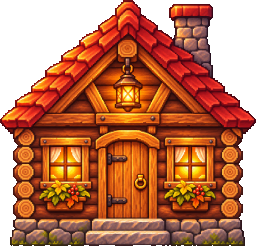
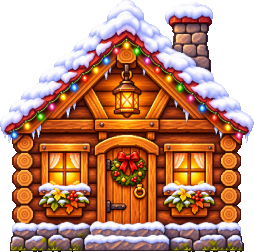
v002: Winter Christmas version: snowy fir trees, falling snow, Christmas lights, Santa badger, sleigh bells
Live on https://www.fugio.co/timber/

diff --git a/timber/game.js b/timber/game.js
@@ -117,13 +117,15 @@ const sfx = {
   hammer() { tone(N(96), .04, 'square', .05); noise(.07, .3, 3000, 1500); tone(240, .09, 'square', .06, 0, 130); },
   ouch() { tone(N(91), .08, 'square', .06); tone(N(86), .35, 'triangle', .08, .08, N(64)); },
   rise() { [0, 4, 7].forEach((s, i) => tone(N(74 + s), .07, 'triangle', .05, i * .05)); },
-  right() { [0, 4, 7, 12].forEach((s, i) => tone(N(76 + s), .08, 'square', .045, i * .06)); },
+  right() { [0, 4, 7, 12].forEach((s, i) => tone(N(76 + s), .08, 'square', .045, i * .06)); sfx.bells(.05, 3); },
   wrong() { tone(N(67), .13, 'triangle', .09); tone(N(62), .26, 'triangle', .08, .12, N(60)); },
   step() { noise(.04, .06, 700, 300, 0, 'lowpass'); },
   coin(n = 0) { n = Math.min(n, 12); tone(N(88 + n), .06, 'square', .04); tone(N(95 + n), .1, 'square', .04, .06); },
   pop() { noise(.12, .2, 2000, 5000, 0, 'highpass'); tone(N(84), .08, 'square', .04, .02, N(96)); },
-  sold() { [72, 76, 79, 84, 79, 84, 88, 91].forEach((n, i) => tone(N(n), i === 7 ? .5 : .12, 'square', .055, i * .11)); [48, 55, 60].forEach((n, i) => tone(N(n), .3, 'triangle', .1, i * .33)); },
-  done() { [67, 72, 76, 79, 84].forEach((n, i) => tone(N(n), .1, 'square', .05, i * .07)); },
+  sold() { [72, 76, 79, 84, 79, 84, 88, 91].forEach((n, i) => tone(N(n), i === 7 ? .5 : .12, 'square', .055, i * .11)); [48, 55, 60].forEach((n, i) => tone(N(n), .3, 'triangle', .1, i * .33)); sfx.bells(0, 12); },
+  done() { [67, 72, 76, 79, 84].forEach((n, i) => tone(N(n), .1, 'square', .05, i * .07)); sfx.bells(.1, 8); },
+  // sleigh bells: quick shimmery shakes with a high bell ping in each
+  bells(d = 0, n = 6) { for (let i = 0; i < n; i++) { const t = d + i * .075 + (i & 1) * .02; noise(.09, .05, 9000, 6000, t, 'highpass'); tone(N(98 + [0, 4, 2][i % 3]), .09, 'sine', .022, t); } },
 };
 const SPK_ON = '<svg viewBox="0 0 12 12" fill="currentColor" shape-rendering="crispEdges"><path d="M1 4h2l3-3h1v10H6L3 8H1z"/><path d="M8 4h1v4H8zM10 2h1v8h-1z"/></svg>';
 const SPK_OFF = '<svg viewBox="0 0 12 12" fill="currentColor" shape-rendering="crispEdges"><path d="M1 4h2l3-3h1v10H6L3 8H1z"/><path d="M8 4h1v1h1V4h1v1h-1v2h1v1h-1V7H9v1H8V7h1V5H8z"/></svg>';
@@ -685,7 +687,7 @@ function drawTree(v, t) {
   } else drawSprite(v, T, t.x, GROUND, {frame, flip: T.flip, rot: t.wob, px: 0, py: 0});
 }
 function drawForest(v) {
-  drawBg(v, SPR.bgForest);
+  drawBg(v, SPR.bgForest); drawSnow(v, [0]);
   const T = SPR.tree, L = SPR.log;
   for (const t of forest.trees) if (t.stump) drawSprite(v, SPR.stump, t.x, GROUND + 4, {flip: T.flip});
   for (const t of forest.trees) if (t.log > 0) drawSprite(v, L, t.x + T.trunkWW / 2 + 40 + L.w * L.k / 2, GROUND + 26, {alpha: t.log});
@@ -695,7 +697,7 @@ function drawForest(v) {
   drawParts(v, forest.parts);
 }
 function drawSite(v) {
-  drawBg(v, SPR.bgSite);
+  drawBg(v, SPR.bgSite); drawSnow(v, [0]);
   const Hs = site.house, hs = SPR['house' + Hs.k], hw = houseW(), hy = GROUND + 22;
   drawSprite(v, SPR.plot, SITE_X, GROUND - 4, {k: hw * 1.34 / SPR.plot.w});
   if (site.pile.s > 0) { const k = SPR.logpile.k * site.pile.s; drawSprite(v, SPR.logpile, pileX(), GROUND - 30, {kx: k, ky: k}); }
@@ -717,6 +719,7 @@ function render() {
   ctx.setTransform(dpr, 0, 0, dpr, 0, 0); ctx.imageSmoothingEnabled = false;
   if (slide > 0 && slide < 1) { const x = Math.round((1 - slide) * W); drawScene(forest, -slide * W, [0, x]); drawScene(site, (1 - slide) * W, [x, W]); }
   else drawScene(cur, 0);
+  drawSnow(cur.vd, [1, 2]);
   if (flashA > 0) { ctx.fillStyle = `rgba(255,255,255,${flashA})`; ctx.fillRect(0, 0, W, H); }
 }
 
@@ -753,8 +756,41 @@ function drawParts(v, ps) {
   }
   ctx.globalAlpha = 1;
 }
-const CHIP = ['#f2cf94', '#e0b070', '#c8955a', '#fff0c8'], LEAF = ['#3f9446', '#5cb85a', '#2f7a3c', '#e3b23c', '#f0c850'], DUST = ['#efe0c0', '#e0cca0', '#fff4dc'],
-  SPARK = ['#ffffff', '#ffd23f', '#fff3a0'], CONF = ['#ff5f8a', '#ffd23f', '#3ddc84', '#5ec8ff', '#b57bff', '#ff8a2a'];
+// winter: LEAF is snow lumps and a few fir needles, DUST is powder snow, the confetti is in Christmas colours
+const CHIP = ['#f2cf94', '#e0b070', '#c8955a', '#fff0c8'], LEAF = ['#ffffff', '#f2f8ff', '#dcebf8', '#ffffff', '#2f6b45'], DUST = ['#ffffff', '#eef5fd', '#d8e8f6'],
+  SNOW = ['#ffffff', '#f4f9ff', '#dcebf8'], SPARK = ['#ffffff', '#ffd23f', '#fff3a0'], CONF = ['#e63946', '#ffffff', '#2fbf6c', '#ffd23f', '#e63946', '#1f8a4c', '#9fe0ff'];
+
+// ---------- the snowfall: pixel flakes in three layers over the whole screen. The far ones (small, slow, dim) fall
+// behind the trees and Foxino, the near ones (bigger, a little plus shape) in front of everything. They drift with a
+// slow gusty wind and move a little against the camera, so the snow feels deep.
+const FLAKES = [], FD = [.35, .62, 1];
+for (let i = 0, n = REDUCED ? 45 : 120; i < n; i++) FLAKES.push({x: Math.random(), y: Math.random(), z: i % 5 < 2 ? 0 : i % 5 < 4 ? 1 : 2, ph: rand(0, 6.3), sp: rand(.75, 1.25)});
+let windT = 0;
+function stepSnow(dt) {
+  windT += dt;
+  const wind = Math.sin(windT * .23) * .55 + Math.sin(windT * .71 + 1) * .25;
+  for (const f of FLAKES) {
+    const d = FD[f.z];
+    f.y += dt * (.03 + .065 * d) * f.sp * (REDUCED ? .5 : 1);
+    f.x += dt * (wind * .035 * d + Math.sin(windT * 1.4 + f.ph) * .014 * d);
+    if (f.y > 1) { f.y -= 1; f.x = Math.random(); }
+    f.x -= Math.floor(f.x);
+  }
+}
+function drawSnow(v, layers) {
+  const u = Math.max(2, Math.round(Math.min(W, H) / 230)), span = W + 60, camX = v ? v.cx * v.s : 0;
+  ctx.fillStyle = '#ffffff';
+  for (const f of FLAKES) {
+    if (!layers.includes(f.z)) continue;
+    const d = FD[f.z];
+    let x = (f.x * span - camX * d * .3) % span; if (x < 0) x += span;
+    x = Math.round(x - 30); const y = Math.round(f.y * (H + 60) - 30);
+    ctx.globalAlpha = f.z === 0 ? .55 : f.z === 1 ? .8 : .95;
+    if (f.z === 2) { ctx.fillRect(x + u, y, u, u * 3); ctx.fillRect(x, y + u, u * 3, u); }
+    else { const s = u * (f.z + 1); ctx.fillRect(x, y, s, s); }
+  }
+  ctx.globalAlpha = 1;
+}
 
 // ---------- the DOM pop-ups: CHOP!, TIMBER!, OUCH!, the speech bubble, the flying coins
 function burst(sc, text, wx, wy, cls = '') {
@@ -822,15 +858,15 @@ function stepActor(a, dt) {
 }
 function update(dt) {
   areaNow();
-  trauma = Math.max(0, trauma - dt * 2.4); flashA = Math.max(0, flashA - dt * 3);
+  trauma = Math.max(0, trauma - dt * 2.4); flashA = Math.max(0, flashA - dt * 3); stepSnow(dt);
   for (const sc of [forest, site]) { updateView(sc, dt); stepParts(sc, dt); }
   stepActor(forest.fox, dt); stepActor(site.fox, dt);
   const b = site.buyer; if (b.walking) { b.wt += dt; b.bob = Math.abs(Math.sin(b.wt * 9)) * 14; } else b.bob *= Math.exp(-dt * 14);
   for (const t of forest.trees) { if (t.wobA > 0) { t.wobA = Math.max(0, t.wobA - dt * 2.5); t.wob = Math.sin(gameT * 38) * .022 * t.wobA; } else t.wob = 0; }
-  // the lobby: a leaf now and then drifts down from the tree
+  // the lobby: now and then a lump of snow drops from the fir's branches
   if (mode === 'lobby' && forest.trees[0]) {
     lobbyLeafT -= dt;
-    if (lobbyLeafT <= 0) { lobbyLeafT = rand(.6, 1.6); const t = forest.trees[0]; addParts(forest, 1, {x: t.x + rand(-260, 260), y: GROUND - TREE_H * rand(.4, .7), vx: [0, 0], vy: [40, 80], g: 60, life: [4, 6], size: [10, 13], cols: LEAF, kind: 'leaf'}); }
+    if (lobbyLeafT <= 0) { lobbyLeafT = rand(.6, 1.6); const t = forest.trees[0]; addParts(forest, 3, {x: t.x + rand(-220, 220), y: GROUND - TREE_H * rand(.35, .75), sx: 20, sy: 10, vx: [-20, 20], vy: [20, 60], g: 160, life: [2.5, 3.5], size: [8, 14], cols: SNOW, kind: 'leaf'}); }
   }
   stepFlyers(dt); placeBubble();
 }
@@ -975,6 +1011,7 @@ async function chopRight(i) {
   const nx = t.x + notchDx(), ny = notchY();
   addParts(forest, 16, {x: nx, y: ny, sy: 20, vx: [-760, -120], vy: [-950, -250], cols: CHIP, size: [14, 26]});
   addParts(forest, 4, {x: nx, y: ny, vx: [-200, 200], vy: [-200, 0], g: 0, life: [.3, .5], cols: DUST, kind: 'dust', size: [30, 50]});
+  addParts(forest, 12, {x: t.x, y: GROUND - TREE_H * .6, sx: 230, sy: TREE_H * .28, vx: [-70, 70], vy: [0, 140], g: 420, life: [1.1, 1.7], cols: SNOW, kind: 'leaf', size: [10, 20]});
   burst(forest, pick1(['CHOP!', 'CHOP!', 'THWACK!']), nx - 40, ny - 200, 'hi');
   const pips = $('qPips').children; if (pips[t.hits - 1]) pips[t.hits - 1].classList.add('on');
   sfx.right();
@@ -1008,7 +1045,7 @@ async function fell(i) {
   await tween(.75, (p) => { t.fall = .06 + (Math.PI / 2 - .06) * E.inQ(p); });
   sfx.crash(); shake(.75); flash(.25);
   const len = TREE_H - (-T.notch.y * T.k);
-  addParts(forest, 14, {x: t.x + T.trunkWW / 2 + len * .5, y: GROUND - 10, sx: len * .45, vx: [-150, 150], vy: [-260, -60], g: 0, life: [.6, 1], cols: DUST, kind: 'dust', size: [40, 70]});
+  addParts(forest, 22, {x: t.x + T.trunkWW / 2 + len * .5, y: GROUND - 10, sx: len * .5, vx: [-180, 180], vy: [-320, -60], g: 0, life: [.7, 1.2], cols: DUST, kind: 'dust', size: [40, 80]});
   addParts(forest, 26, {x: t.x + len * .85, y: GROUND - 120, sx: 220, sy: 80, vx: [-300, 300], vy: [-700, -200], g: 500, life: [1.2, 2.2], cols: LEAF, kind: 'leaf', size: [16, 22]});
   await tween(.22, (p) => { t.fall = Math.PI / 2 - .07 * Math.sin(p * Math.PI); });
   await sleep(.3);
@@ -1105,7 +1142,7 @@ async function sellHouse() {
   const bx = buyerX();
   await tween(Math.abs(b.x - bx) / 360, ((x0) => (p) => { b.x = lerp(x0, bx, p); })(b.x));
   b.walking = false;
-  say(`What a lovely house! I'll buy it for <b><i class="gc"></i>${info.price}</b>`, site, bx, GROUND + 40 - BUYER_H - 30);
+  say(`Merry Christmas! What a cosy house! I'll buy it for <b><i class="gc"></i>${info.price}</b>`, site, bx, GROUND + 40 - BUYER_H - 30);
   sfx.click();
   await sleep(1.9);
   unsay();

diff --git a/timber/index.html b/timber/index.html
@@ -7,7 +7,7 @@
 <meta name="mobile-web-app-capable" content="yes">
 <meta name="theme-color" content="#3a2414">
 <title>Timber Town · Fugio</title>
-<meta name="description" content="Timber Town: chop trees with Foxino the lumberjack, build a wooden house and sell it. Every right answer is one chop or one hammer blow.">
+<meta name="description" content="Timber Town: chop snowy Christmas trees with Foxino the lumberjack, build a wooden house and sell it. Every right answer is one chop or one hammer blow.">
 <link rel="preconnect" href="https://fonts.googleapis.com">
 <link rel="preconnect" href="https://fonts.gstatic.com" crossorigin>
 <link href="https://fonts.googleapis.com/css2?family=Pixelify+Sans:wght@400..700&family=Press+Start+2P&display=swap" rel="stylesheet">
@@ -227,6 +227,21 @@ body.side #card.away{transform:translateX(115%)}
   .end-btns .pbtn{padding:11px 8px;font-size:12px}
   .end-stars{font-size:26px}
 }
+/* ---------- winter: a string of twinkling Christmas lights along the top of the lobby, a Santa hat on the title,
+   snow lying on the buttons and panels */
+.xlights{position:fixed;left:0;right:0;top:0;height:30px;pointer-events:none!important;z-index:0}
+.xlights svg{display:block;width:100%;height:100%;overflow:visible}
+.xlights .bulb{animation:twinkle 1.6s steps(2) infinite}
+.xlights .bulb:nth-of-type(3n){animation-delay:-.55s}.xlights .bulb:nth-of-type(3n+1){animation-delay:-1.1s}
+@keyframes twinkle{50%{opacity:.35}}
+@media (prefers-reduced-motion:reduce){.xlights .bulb{animation:none}}
+.hatT{position:relative;display:inline-block;font-weight:inherit}
+.santa{position:absolute;left:-.2em;top:-.66em;width:1.1em;height:auto;transform:rotate(-14deg);image-rendering:pixelated;
+  filter:drop-shadow(2px 0 0 var(--ink)) drop-shadow(-2px 0 0 var(--ink)) drop-shadow(0 2px 0 var(--ink)) drop-shadow(0 -2px 0 var(--ink))}
+.snowcap::after{content:"";position:absolute;left:0;right:0;top:0;height:calc(var(--u)*3);pointer-events:none;
+  background:linear-gradient(#fff,#fff) 0 0/100% calc(var(--u)*1.5) no-repeat,
+    repeating-linear-gradient(90deg,#fff 0 10px,transparent 10px 17px,#e6f1fb 17px 22px,transparent 22px 36px,#fff 36px 41px,transparent 41px 50px) 0 calc(var(--u)*1.5)/100% calc(var(--u)*1.5) no-repeat}
+.town{background:linear-gradient(#9cc8ec 0 55%,#f4f9ff 55% 82%,#d6e6f4 82%)}
 #loading{position:fixed;inset:0;z-index:50;display:grid;place-items:center;background:#3a2414;font-family:var(--px);font-size:22px;color:var(--hi);text-shadow:3px 3px 0 var(--ink)}
 </style>
 </head>
@@ -237,14 +252,15 @@ body.side #card.away{transform:translateX(115%)}
 <section id="lobby">
   <button class="pbtn dark" id="leaveBtn" aria-label="Back to Fugio">&#9664; LEAVE</button>
   <button class="pbtn dark" id="pfBtn" aria-label="Your profile: type your name"></button>
-  <div class="lb-title"><h1>TIMBER <span>TOWN</span></h1></div>
+  <div class="xlights" id="xlights" aria-hidden="true"></div>
+  <div class="lb-title"><h1><b class="hatT">T<svg class="santa" viewBox="0 0 14 11" shape-rendering="crispEdges" aria-hidden="true"><path fill="#d8402f" d="M2 7h10v1H2zM3 6h9v1H3zM4 5h8v1H4zM5 4h6v1H5zM7 3h5v1H7zM9 2h3v1H9z"/><path fill="#a8302a" d="M10 4h1v1h-1zM11 5h1v2h-1zM11 3h1v1h-1z"/><path fill="#fff" d="M1 8h12v2H1zM11 0h3v3h-3z"/><path fill="#cfe0f0" d="M1 10h12v1H1zM13 2h1v1h-1z"/></svg></b>IMBER <span>TOWN</span></h1></div>
   <div class="lb-side">
-    <button class="pbtn side" id="townBtn" aria-label="My town: the houses you have sold"><svg viewBox="0 0 13 13" shape-rendering="crispEdges"><path fill="#1e120a" d="M6 0h1v1h1v1h1v1h1v1h1v1h1v1h-1v7H2V6H1V5h1V4h1V3h1V2h1V1h1z"/><path fill="#d8402f" d="M6 1h1v1h1v1h1v1h1v1h1v1H2V5h1V4h1V3h1V2h1z"/><path fill="#c98a4a" d="M3 6h7v6H3z"/><path fill="#8a5528" d="M3 8h7v1H3zM3 10h7v1H3z"/><path fill="#3a2414" d="M5 9h3v3H5z"/><path fill="#9fe0ff" d="M4 7h1v1H4zM8 7h1v1H8z"/></svg><span>MY<br>TOWN</span></button>
-    <button class="pbtn side" id="sndBtn" aria-label="Sound on or off"></button>
+    <button class="pbtn side snowcap" id="townBtn" aria-label="My town: the houses you have sold"><svg viewBox="0 0 13 13" shape-rendering="crispEdges"><path fill="#1e120a" d="M6 0h1v1h1v1h1v1h1v1h1v1h1v1h-1v7H2V6H1V5h1V4h1V3h1V2h1V1h1z"/><path fill="#d8402f" d="M6 1h1v1h1v1h1v1h1v1h1v1H2V5h1V4h1V3h1V2h1z"/><path fill="#c98a4a" d="M3 6h7v6H3z"/><path fill="#8a5528" d="M3 8h7v1H3zM3 10h7v1H3z"/><path fill="#3a2414" d="M5 9h3v3H5z"/><path fill="#9fe0ff" d="M4 7h1v1H4zM8 7h1v1H8z"/></svg><span>MY<br>TOWN</span></button>
+    <button class="pbtn side snowcap" id="sndBtn" aria-label="Sound on or off"></button>
   </div>
-  <div class="dock px" id="dock">
+  <div class="dock px snowcap" id="dock">
     <button class="qcard px" id="qcard" aria-label="Choose the questions"></button>
-    <button class="pbtn yellow" id="playBtn"></button>
+    <button class="pbtn yellow snowcap" id="playBtn"></button>
   </div>
   <div class="sheet" id="pfSheet" role="dialog" aria-label="Your profile"><div class="px sheet-card">
     <div class="sh-head"><h3 class="ptitle">LUMBERJACK</h3><button class="pbtn dark sh-x" data-close aria-label="Close">&#10005;</button></div>
@@ -262,19 +278,19 @@ body.side #card.away{transform:translateX(115%)}
 
 <section id="hud" hidden>
   <button class="pbtn dark" id="menuBtn" aria-label="Pause"><svg viewBox="0 0 10 10" shape-rendering="crispEdges" fill="currentColor"><path d="M1 2h8v2H1zM1 6h8v2H1z"/></svg></button>
-  <div id="goal" class="px"></div>
+  <div id="goal" class="px snowcap"></div>
   <div id="coinChip" class="px"><i class="gc"></i><b id="coinN">0</b></div>
   <button class="pbtn dark" id="muteBtn" aria-label="Sound on or off"></button>
 </section>
 
-<section id="card" class="px away" aria-live="polite">
+<section id="card" class="px away snowcap" aria-live="polite">
   <div class="q-head"><span id="qKick"></span><span class="q-pips" id="qPips"></span></div>
   <div class="q-s"><div class="q-t" id="qText"></div></div>
   <div class="q-a" id="qAns"></div>
   <div class="q-tap">TAP TO GO ON</div>
 </section>
 
-<section id="end" hidden><div class="px end-card">
+<section id="end" hidden><div class="px end-card snowcap">
   <h2 class="ptitle" id="endTitle">HOUSE SOLD!</h2>
   <div class="end-top"><canvas id="endHouse" width="10" height="10"></canvas><div class="end-stars" id="endStars"></div></div>
   <div class="end-rows" id="endRows"></div>
@@ -291,9 +307,30 @@ body.side #card.away{transform:translateX(115%)}
 <div id="fade"></div>
 <div id="loading">TIMBER TOWN</div>
 
+<script>
+// the Christmas lights along the top of the lobby: a wire sagging between hooks with coloured pixel bulbs
+(function () {
+  const box = document.getElementById('xlights');
+  function draw() {
+    const w = Math.max(320, innerWidth), hook = 150, n = Math.ceil(w / hook), cols = ['#e63946', '#2fbf6c', '#ffd23f', '#3fa9ff'];
+    let wire = '', bulbs = '', k = 0;
+    for (let i = 0; i < n; i++) {
+      const x0 = i * hook, x1 = x0 + hook;
+      wire += `M${x0} 4Q${x0 + hook / 2} 26 ${x1} 4`;
+      for (let j = 1; j <= 5; j++) {
+        const t = j / 6, x = (1 - t) * (1 - t) * x0 + 2 * t * (1 - t) * (x0 + hook / 2) + t * t * x1, y = (1 - t) * (1 - t) * 4 + 2 * t * (1 - t) * 26 + t * t * 4;
+        const c = cols[k++ % 4];
+        bulbs += `<g class="bulb"><rect x="${Math.round(x) - 2}" y="${Math.round(y)}" width="4" height="3" fill="#2b3a2b"/><rect x="${Math.round(x) - 3}" y="${Math.round(y) + 3}" width="6" height="8" fill="${c}"/><rect x="${Math.round(x) - 2}" y="${Math.round(y) + 4}" width="2" height="3" fill="#fff" opacity=".6"/></g>`;
+      }
+    }
+    box.innerHTML = `<svg viewBox="0 0 ${w} 30" preserveAspectRatio="xMinYMin slice" shape-rendering="crispEdges"><path d="${wire}" fill="none" stroke="#1e2a1e" stroke-width="2"/>${bulbs}</svg>`;
+  }
+  draw(); addEventListener('resize', draw);
+})();
+</script>
 <script src="packages.js?v=1"></script>
 <script src="/shared/pack-picker.js?v=8"></script>
-<script src="art/manifest.js?v=1"></script>
-<script src="game.js?v=1"></script>
+<script src="art/manifest.js?v=2"></script>
+<script src="game.js?v=2"></script>
 </body>
 </html>

diff --git a/timber/art/manifest.js b/timber/art/manifest.js
@@ -1,3 +1,3 @@
 // Timber Town art: written by "Foxino/Timber Town/build_art.py" from the ChatGPT pictures. Empty = the game draws its
 // own placeholder pixel art.
-window.TT_ART = {"v":1794398581,"assets":{"fox":{"file":"foxino.webp","w":888,"h":114,"fw":111,"fh":114,"ax":42,"ay":113,"frames":["idle","windup","chop","cheer","hamUp","hamDown","carry","dizzy"],"figH":106,"axeTip":{"x":60,"y":-44},"hamTip":{"x":49,"y":-16}},"tree":{"files":["tree-0.webp","tree-1.webp","tree-2.webp"],"w":255,"h":372,"ax":122,"ay":371,"trunkW":68,"notch":{"x":18,"y":-85,"edge":34},"flip":true},"stump":{"file":"stump.webp","w":254,"h":194,"ax":127,"ay":193,"trunkW":130},"log":{"file":"log.webp","w":368,"h":93,"ax":184,"ay":92,"thick":69},"logpile":{"file":"logpile.webp","w":232,"h":199,"ax":116,"ay":198},"plot":{"file":"plot.webp","w":366,"h":138,"ax":183,"ay":69},"house1":{"file":"house-1.webp","w":256,"h":246,"ax":128,"ay":245},"house2":{"file":"house-2.webp","w":254,"h":251,"ax":127,"ay":250},"house3":{"file":"house-3.webp","w":254,"h":255,"ax":127,"ay":254},"scaffold":{"file":"scaffold.webp","w":252,"h":250,"ax":126,"ay":249},"buyer":{"file":"buyer.webp","w":158,"h":212,"ax":79,"ay":211},"bgForest":{"file":"bg-forest.webp","w":256,"h":384,"sky":"rgb(67,154,253)","ground":"rgb(69,122,32)","horizon":0.55,"par":1},"bgSite":{"file":"bg-site.webp","w":256,"h":384,"sky":"rgb(94,117,157)","ground":"rgb(81,119,32)","horizon":0.55,"par":1},"face":{"file":"face.webp"}}};
+window.TT_ART = {"v":1794400951,"assets":{"fox":{"file":"foxino.webp","w":896,"h":117,"fw":112,"fh":117,"ax":43,"ay":115,"frames":["idle","windup","chop","cheer","hamUp","hamDown","carry","dizzy"],"figH":108,"axeTip":{"x":60,"y":-43},"hamTip":{"x":49,"y":-15}},"tree":{"files":["tree-0.webp","tree-1.webp","tree-2.webp"],"w":252,"h":382,"ax":121,"ay":380,"trunkW":68,"notch":{"x":14,"y":-65,"edge":39},"flip":true},"stump":{"file":"stump.webp","w":253,"h":195,"ax":126,"ay":194,"trunkW":127},"log":{"file":"log.webp","w":368,"h":95,"ax":184,"ay":94,"thick":68},"logpile":{"file":"logpile.webp","w":231,"h":200,"ax":115,"ay":199},"plot":{"file":"plot.webp","w":368,"h":146,"ax":184,"ay":73},"house1":{"file":"house-1.webp","w":254,"h":252,"ax":127,"ay":251},"house2":{"file":"house-2.webp","w":254,"h":255,"ax":127,"ay":254},"house3":{"file":"house-3.webp","w":254,"h":255,"ax":127,"ay":254},"scaffold":{"file":"scaffold.webp","w":252,"h":251,"ax":126,"ay":250},"buyer":{"file":"buyer.webp","w":158,"h":212,"ax":79,"ay":211},"bgForest":{"file":"bg-forest.webp","w":256,"h":384,"sky":"rgb(110,168,247)","ground":"rgb(226,232,253)","horizon":0.55,"par":1},"bgSite":{"file":"bg-site.webp","w":256,"h":384,"sky":"rgb(88,136,218)","ground":"rgb(247,247,253)","horizon":0.55,"par":1},"face":{"file":"face.webp"}}};
